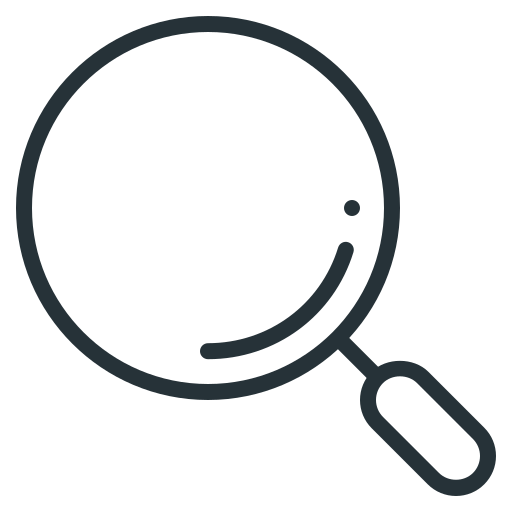
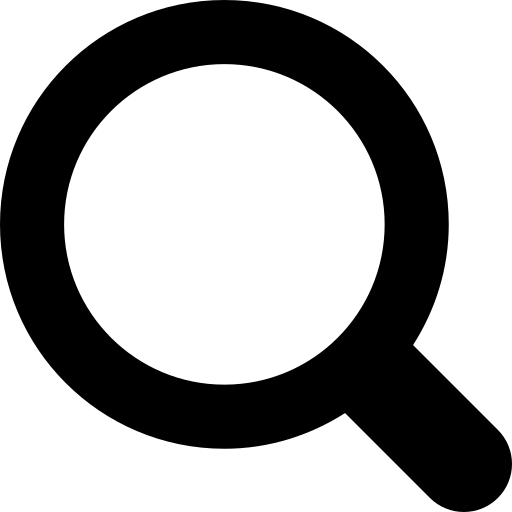
메인 프론트엔드 완성_1

diff --git a/src/main/webapp/resources/css/top.css b/src/main/webapp/resources/css/top.css
@@ -9,6 +9,11 @@ a { text-decoration: none; }
     margin: 0 auto;
 }
 
+#top_logo{
+	display: block;
+    height: 100%;
+}
+
 .top{
 	padding-top: 15px;
 	height: 25px;
@@ -17,56 +22,64 @@ a { text-decoration: none; }
 .top ul{
     height: 100%;
     float: right;
-    width: 150px;
 }
 .top ul li{
 	float: left;
 }
 
+.top ul li a{
+	color: #242038;
+}
+
 .logo{
 	display: inline-block;
+	height: 85px;
 }
 
 .logo img{
-	width: 250px;
-	height: 100px;
+    display: block;
+    height: 100%;
 }
 
 .search{
 	height: 45px;
 	display: block;
 	float: right;
-	margin-top: 27px;
+}
+
+#top_search_form{
+    position: relative;
+    height: 90px;
+    line-height: 90px;
 }
 
 .search-btn{
-    width: 27px;
+	width: 27px;
     height: 27px;
-    margin-right: 10px;
     background-image: url(../images/glass_icon.png);
     background-position: center;
     border: 0;
     position: absolute;
-    transform: translateY(8px);
-    right: 23%;
+    transform: translateY(-50%);
+    right: 30px;
     background-size: 100% 100%;
-    background-color: transparent;	
+    top: 50%;
+    background-color: transparent;
     cursor: pointer;
 }
 
 .main_search{
-	float: right;
 	box-sizing: border-box;
-	border-radius: 90px;
-	width: 850px;
+    border-radius: 90px;
+    width: 895px;
     height: 45px;
+    line-height: 45px;
     font-size: 18px;
-    padding: 0px 145px 0px 80px;
-  	outline: none;
-  	border: none;
+    padding: 0px 100px 0px 50px;
+    outline: none;
+    border: none;
     outline-style: solid;
     outline-color: #9067c6;
-    position: relative; 
 }
 
 #menu:hover {

diff --git a/src/main/webapp/resources/css/login.css b/src/main/webapp/resources/css/login.css
@@ -16,50 +16,36 @@ a { text-decoration: none; }
 }
 */
 
-.boxleft {
-  background-image: linear-gradient(-225deg, rgb(202, 196, 206) 0%,#8d86c9 100%);
-  width: calc(100% / 4);
-  height: calc(100vh - 30vh);
-  float: left;
-}
-
-/*
-.boxleft a{
-  background-image: url(images/updev2.png);
-  width: 20px;
-  margin: 20px 20px;
-  background-repeat: no-repeat;
-}
-*/
-
 .boxright{
-	position: relative;
-    width: calc(100% / 6);
-    height: calc(100vh - 30vh);
-	float: left;
+	height: calc(100vh - 365px);
+    width: 100%;
+    position: relative;
 }
+
 .boxright form{
-  position: absolute;
-  top: 50%;
-  left: 70%;
-  transform: translate(90%, -60%);
-  width: 380px;
+    top: 50%;
+    width: 380px;
+    margin: auto;
+    position: absolute;
+    left: 52%;
+    transform: translate(-50%, -50%);
 }
 
 .boxright form .input{
   display: block;
-  width: 70%;
+  width: 69%;
   height: 50px;
 }
 
 
 h1{
-  margin: 20px 10px;
+    margin-bottom: 15px;
 }
 
 .input {
-  padding: 0px 40px;
-  margin: 10px;
+	padding: 0px 40px;
+    margin: 10px 0;
+    border: solid 1px #242038;
 }
 
 .input[type="checkbox"]{
@@ -67,7 +53,7 @@ h1{
 }
 
 .boxright a{
-	margin: 0px 10px;
+	margin: 0px 13px;
 	color: #242038;
 }
 
@@ -79,13 +65,13 @@ h1{
   width: 90%;
   background-color: #9067c6;
   border: 0;
-  margin: 7px 0px 0px 13px;
   font-size: 15px;
   color: white;
   padding: 10px;
   cursor: pointer;
   border-radius: 10px;
   transition-duration: 0.4s;
+  margin-top: 7px;
 }
 
 .button.button:hover {

diff --git a/src/main/webapp/resources/css/main.css b/src/main/webapp/resources/css/main.css
@@ -39,12 +39,12 @@ h3{
 
 .input{
 	padding: 10px 30px;
-    width: 140px;
+    width: 155px;
     height: 15px;
     outline: none;
   	border: none;
   	margin-top: 10px;
-  	margin-left: 25px;
+  	margin-left: 28px;
   	border-radius: 90px;
 }
 
@@ -52,17 +52,41 @@ h3{
     margin-top: 35px;
 }
 
+button.main_login{
+  width: 20%;
+  height: 67px;
+  background-color: #ffffff;
+  border: 0;
+  margin: 43px 28px 0 0;
+  font-size: 15px;
+  color: #242038;
+  cursor: pointer;
+  border-radius: 20px;
+  transition-duration: 0.4s;
+  display: block;
+  float: right;
+}
+
+button.main_login:hover{
+  color: white;
+  background-color: #242038;
+}
+.button.button:first-child {
+	margin-left: 27px;
+}
+
 .button.button {
-  width: 40%;
   height: 30px;
   background-color: #ffffff;
   border: 0;
-  margin: 20px 0px 0px 15px;
+  margin: 20px 0px 0px 5px;
   font-size: 15px;
   color: #242038;
   cursor: pointer;
   border-radius: 90px;
   transition-duration: 0.4s;
+  padding: 0 15px;
+  line-height: 30px;
 }
 
 .button.button:hover {
@@ -77,7 +101,7 @@ h3{
 .login{
 	background-image: linear-gradient(-225deg, #9067c6 0%,#8d86c9 100%);
 	height: 200px;
-	width: 330px;
+	width: 366px;
 	border-radius: 40px;
 	float: right;  	
 	position: absolute;
@@ -87,7 +111,7 @@ h3{
 
 .slider-wrap{
 	position: relative;
-	width: 825px;
+	width: 782px;
 	top: -15px;
 }
 

diff --git a/src/main/webapp/resources/css/footer.css b/src/main/webapp/resources/css/footer.css
@@ -28,7 +28,3 @@ h3{
 	color: #cac4ce;
 	text-align: center;
 }
-
-.f3{
-	
-}
